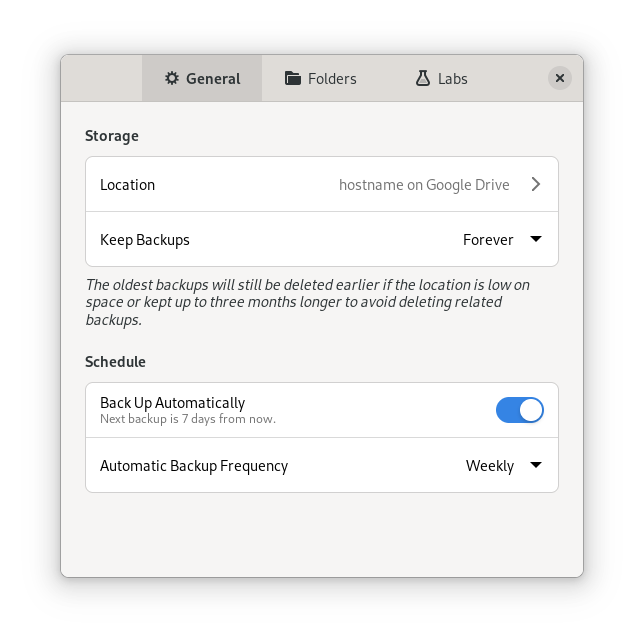
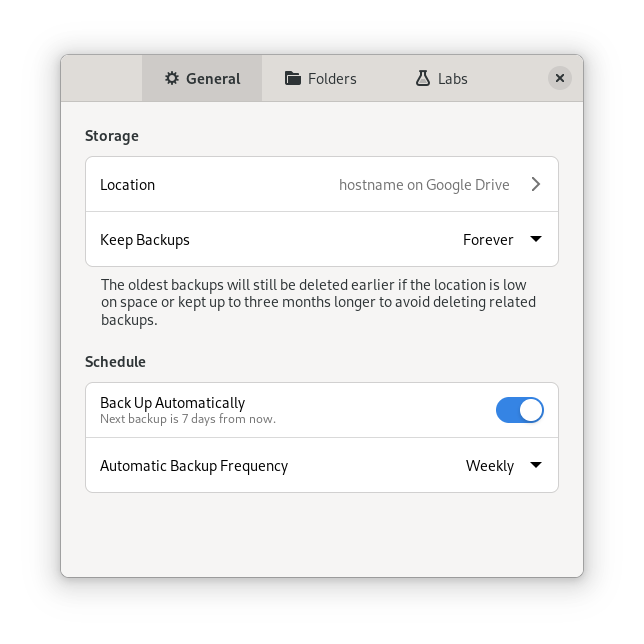
Various HIG improvements
- Make restore search global (not limited to your current view)
- Add tooltips to header bar buttons
- Don't use italics for helper/secondary text
- Use "Your" not "My" in "Create Your First Backup" button
- Allow Ctrl+W (in addition to existing Ctrl+Q) to close window

Changed region(s): [[0.1242, 0.4348, 0.8385, 0.528]]

diff --git a/acceptance/test_settings.py b/acceptance/test_settings.py
@@ -28,7 +28,7 @@ class PreferencesTest(BaseTest):
 
     def test_general(self):
         # Test that there's a special first time welcome screen
-        self.app.button("Create My First Backup")
+        self.app.button("Create Your First Backup")
 
         # Grab switch from main window, set last-run time so the switch shows up
         now = GLib.DateTime.new_now_utc().format_iso8601()

diff --git a/acceptance/test_restore.py b/acceptance/test_restore.py
@@ -85,7 +85,7 @@ class RestoreTest(BaseTest):
     def test_simple_cycle(self):
         app = self.cmd()
 
-        app.button("Create My First Backup").click()
+        app.button("Create Your First Backup").click()
         self.walk_backup(app)
 
         self.set_string("last-run", "")  # to go back to welcome screen

diff --git a/acceptance/test_backup.py b/acceptance/test_backup.py
@@ -47,7 +47,7 @@ class BackupTest(BaseTest):
 
     def test_from_main_window(self):
         app = self.cmd()
-        app.button("Create My First Backup").click()
+        app.button("Create Your First Backup").click()
         with self.new_files():
             self.walk_initial_backup(app)
 
